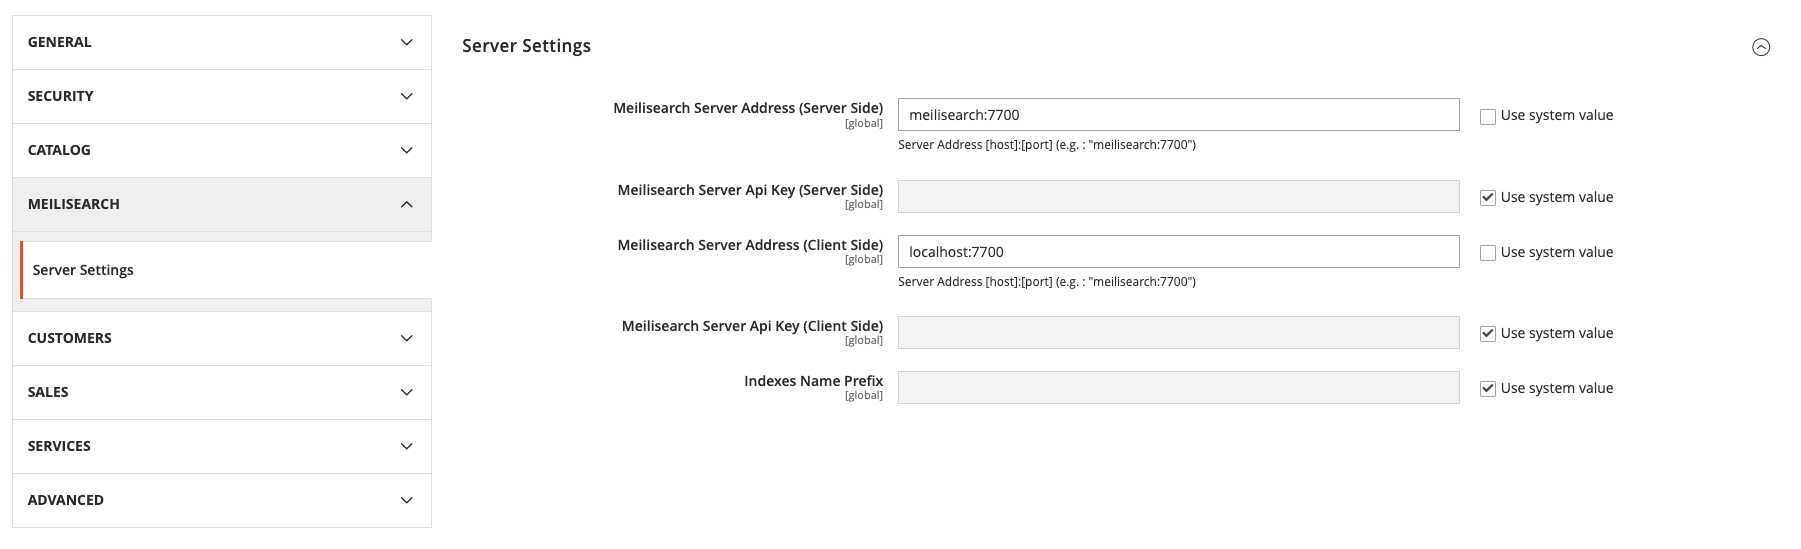
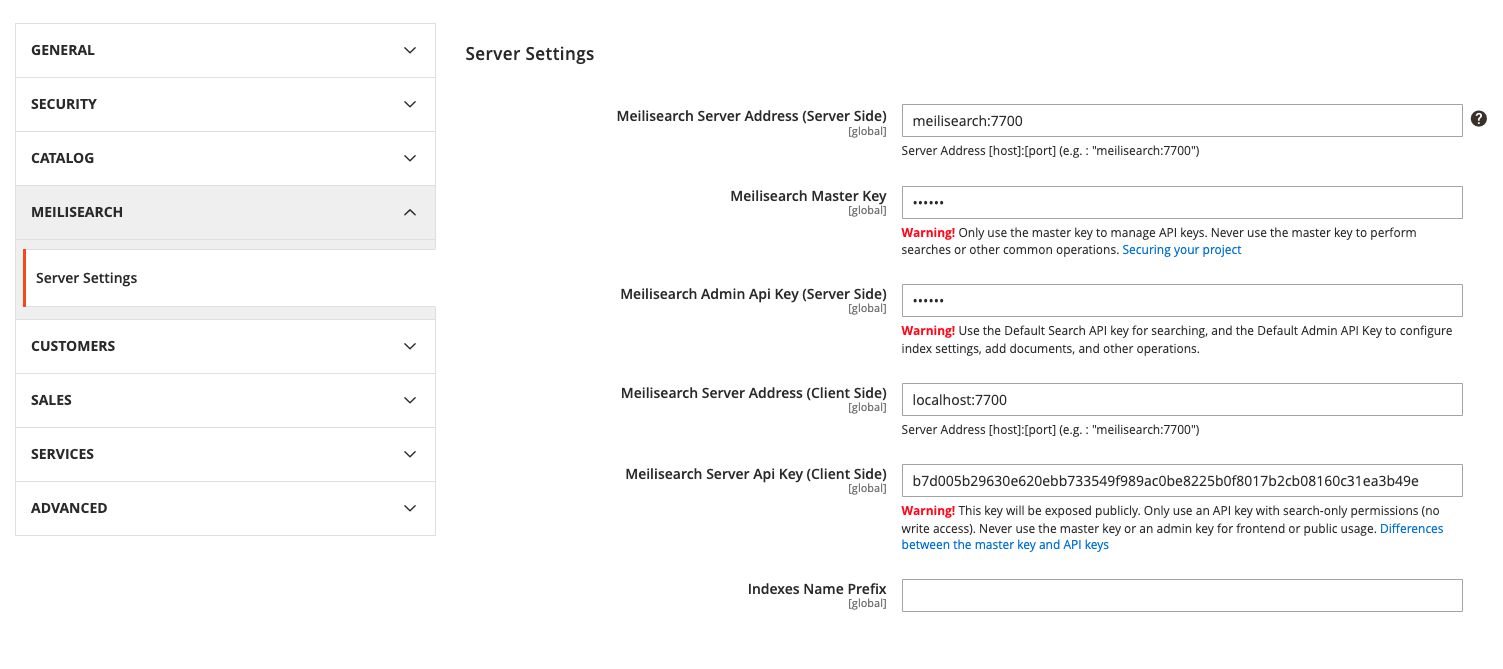
Update doc

diff --git a/docs/installation.md b/docs/installation.md
@@ -4,15 +4,15 @@ sidebar_label: Module installation
 title: Module installation
 ---
 
-# 📦 Installation
+# Installation
 
-## ✅ Prerequisites
+## Prerequisites
 
 * Magento >= 2.4.4
 * Meilisearch >= v1.9.0
 * PHP >= 8.1
 
-## 🧩 Magento 2 Module Installation
+## Magento 2 Module Installation
 
 ```bash
 composer require walkwizus/magento2-module-meilisearch
@@ -34,28 +34,85 @@ bin/magento setup:upgrade
 ```
 :::
 
-## ⚙ Configuration
+## Configuration
 
 You can configure the connection to your Meilisearch instance either via CLI or directly from the Magento Admin Panel.
 
-### 🖥 Option 1 – CLI Configuration
+## Generate a MASTER API Key
+
+If you want a secure installation, you can generate a master key using the following command:
+
+```bash
+bin/magento meilisearch:generate:master-key
+```
+⚠ This command only generates a Meilisearch key and can optionally store it in Magento, but it does **not** restart Meilisearch with the new master key.
+To restart Meilisearch with this key, you need to add it to your `compose.yaml` if you're using Docker:
+
+```yaml
+meilisearch:
+  image: 'getmeili/meilisearch:latest'
+  ports:
+    - '${FORWARD_MEILISEARCH_PORT:-7700}:7700'
+  volumes:
+    - 'meilidata:/meili_data'
+    #- './meilisearch-key.pem:/root/meilisearch-key.pem'
+    #- './meilisearch.pem:/root/meilisearch.pem'
+  environment:
+    #- MEILI_SSL_CERT_PATH=/root/meilisearch.pem
+    #- MEILI_SSL_KEY_PATH=/root/meilisearch-key.pem
+    - MEILI_MASTER_KEY=4ff477ac22ce5c3788cdc2799cef8f63
+  healthcheck:
+    test: ["CMD", "wget", "--no-verbose", "--spider", "http://localhost:7700/health"]
+    retries: 3
+    timeout: 5s
+```
+
+If you're using a standard installation (e.g. on a server), restart Meilisearch with the following command:
+
+```bash
+./meilisearch --master-key="MASTER_KEY"
+```
+
+When Meilisearch starts in secure mode with a MASTER KEY, it automatically generates three default API keys covering most use cases. You can display them with the following command:
+
+```bash
+bin/magento meilisearch:keys
+```
+
+You should see an output like this:
+
+```
++------------------------+--------------------------------------+------------------------------------------------------------------+-------------------------+---------+------------+
+| Name                   | UID                                  | Key                                                              | Actions                 | Indexes | Expires At |
++------------------------+--------------------------------------+------------------------------------------------------------------+-------------------------+---------+------------+
+| Default Search API Key | 8c779f7b-5ea4-4ab5-bb09-82800cc097f2 | b7d005b29630e620ebb733549f989ac0be8225b0f8017b2cb08160c31ea3b49e | search                  | *       | never      |
+| Default Admin API Key  | de1ee113-b2ce-4855-89e2-8c046c9c4a1f | e2bfca897f28a8576fd9c14c51dca38b02c70974600daba1a2bc06de86d61bcb | *                       | *       | never      |
+| Default Chat API Key   | 07eed6fc-348d-4c02-9705-1c0b9ba30828 | 6f4c4cb918011d21ecfb6c82d85b1b4eb5e2fe3103daddfbe332fd51e1478baf | chatCompletions, search | *       | never      |
++------------------------+--------------------------------------+------------------------------------------------------------------+-------------------------+---------+------------+
+```
+
+- **Default Search API Key**: This key should be used on the Magento frontend (configured under *Meilisearch Server API Key (Client Side)*).
+- **Default Admin API Key**: This key should be used on the server-side to index documents into Meilisearch. **It must never be exposed on the frontend**.
+
+### Option 1 – CLI Configuration
 
 ```bash
 bin/magento config:set meilisearch_server/settings/address meilisearch:7700
+bin/magento config:set meilisearch_server/settings/master_key "YOUR_MASTER_KEY"
 bin/magento config:set meilisearch_server/settings/api_key "YOUR_API_KEY"
 bin/magento config:set meilisearch_server/settings/client_address localhost:7700
 bin/magento config:set meilisearch_server/settings/client_api_key "YOUR_CLIENT_API_KEY"
 bin/magento config:set catalog/search/engine meilisearch
 ```
 
-### 🧑💼 Option 2 – Admin Panel Configuration
+### Option 2 – Admin Panel Configuration
 
 Go to **Stores > Configuration > Meilisearch > Server Settings**  
-From there, you can fill in the server URL, public/private API keys, and prefix settings.
+From there, you can fill in the server URL, master/public/private API keys and prefix settings.
 
 ![Magento Admin Configuration Screenshot](/img/installation/store-configuration.png)
 
-## 🔁 Indexing
+## Indexing
 
 ```bash
 bin/magento indexer:reindex catalogsearch_fulltext

diff --git a/docs/introduction/local.md b/docs/introduction/local.md
@@ -4,7 +4,7 @@ sidebar_label: Install Meilisearch
 title: Install Meilisearch
 ---
 
-## 🚀 Installing Meilisearch (Local Setup)
+## Installing Meilisearch (Local Setup)
 
 There are multiple ways to install Meilisearch. In this documentation, we’ll focus on a **local installation** suited for development environments.
 
@@ -14,7 +14,7 @@ There are multiple ways to install Meilisearch. In this documentation, we’ll f
 - **Self-hosted Meilisearch**: [Self-hosted Installation Guide](https://www.meilisearch.com/docs/learn/self_hosted/getting_started_with_self_hosted_meilisearch)
 ---
 
-### 🐳 Docker Installation
+### Docker Installation
 
 For a quick local setup using Docker, we recommend Mark Shust’s excellent Magento environment:  
 👉 https://github.com/markshust/docker-magento
@@ -40,3 +40,5 @@ meilisearch:
 ```
 
 You can access the Meilisearch dashboard at http://localhost:7700
+
+More information on local installation: [Local installation](https://www.meilisearch.com/docs/learn/self_hosted/install_meilisearch_locally#local-installation) 

diff --git a/docs/merchandising/facets.md b/docs/merchandising/facets.md
@@ -4,14 +4,14 @@ sidebar_label: Facet Merchandising
 label: Facet Merchandising
 ---
 
-# 🧩 Facet Merchandising
+# Facet Merchandising
 
 The **Facet Merchandising** feature allows you to customize how layered navigation behaves and looks on your storefront — enhancing the search experience for your customers.
 
 Accessible via the Magento Admin Panel under:  
 **Marketing > Meilisearch Merchandising > Facet Merchandising**
 
-## ⚙ Configuration Options
+## Configuration Options
 
 For each filterable attribute, you can:
 
@@ -21,7 +21,7 @@ For each filterable attribute, you can:
 
 These settings let you optimize the layered navigation for clarity and usability, especially in large catalogs.
 
-## ✅ Example Use Cases
+## Example Use Cases
 
 - Move the "Brand" facet to the top of the list for better visibility.
 - Enable search within the "Material" facet to help users narrow down textile types.

diff --git a/docs/merchandising/category.md b/docs/merchandising/category.md
@@ -4,7 +4,7 @@ sidebar_label: Category Merchandising
 label: Category Merchandising
 ---
 
-# 🗂 Category Merchandising
+# Category Merchandising
 
 The **Category Merchandising** feature lets you dynamically populate your Magento categories using a powerful rule engine — no more manual product assignments.
 
